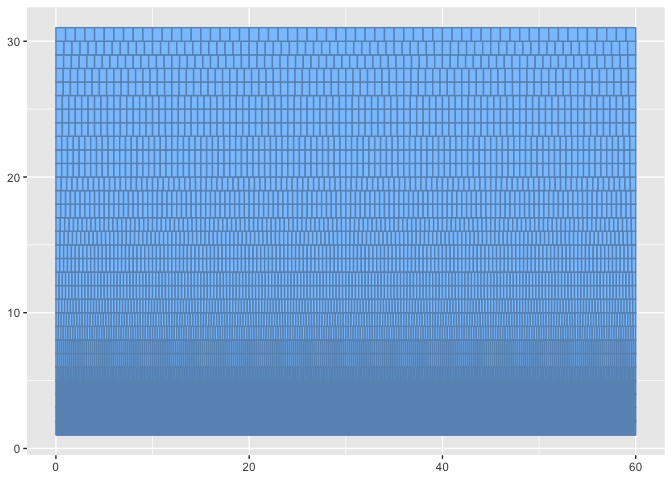
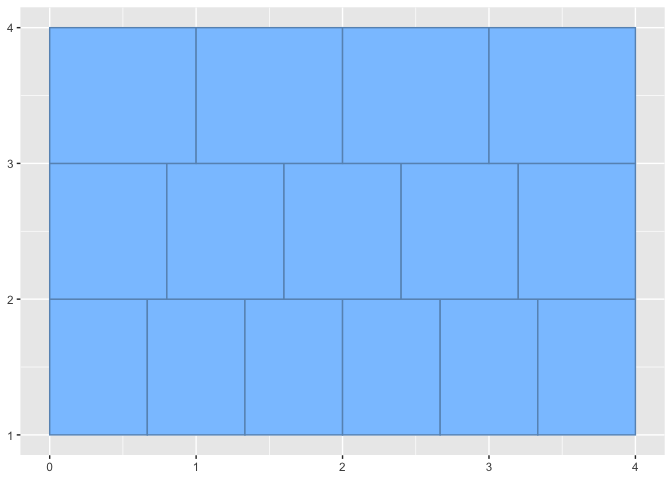
showing same dimensions for both freq and wavelength estiamtes

diff --git a/Ratios-and-Inversions.md b/Ratios-and-Inversions.md
@@ -9,91 +9,37 @@ Frequency and Wavelength Relative Periodicity
 
 #### Spatial Estimate
 
-| tol_l |  min_l_m | lcd_l_Sz | chord_l_m | chord_T_s |
-|------:|---------:|---------:|----------:|----------:|
-|   0.1 | 0.087501 |       60 |  5.250061 | 0.0153063 |
+| chord_Hz |  chord_m |  chord_s | chord_Sz |
+|---------:|---------:|---------:|---------:|
+| 65.40639 | 3.500041 | 0.015289 |        4 |
 
 ![](Ratios-and-Inversions_files/figure-gfm/unnamed-chunk-3-1.png)<!-- -->
 
-### Wavelength Ratios
+##### Wavelength Ratios
 
-| index | num | den |     ratio |      tone | reference_tone |
-|------:|----:|----:|----------:|----------:|---------------:|
-|    30 |   1 |   1 |  1.000000 | 0.0875010 |       0.087501 |
-|    29 |   6 |   5 |  1.111111 | 0.0972234 |       0.087501 |
-|    28 |   5 |   4 |  1.189207 | 0.1040568 |       0.087501 |
-|    27 |   4 |   3 |  1.250000 | 0.1093763 |       0.087501 |
-|    26 |   4 |   3 |  1.321341 | 0.1156187 |       0.087501 |
-|    25 |   3 |   2 |  1.428571 | 0.1250015 |       0.087501 |
-|    24 |   3 |   2 |  1.486509 | 0.1300710 |       0.087501 |
-|    23 |   3 |   2 |  1.498307 | 0.1311034 |       0.087501 |
-|    22 |   5 |   3 |  1.664786 | 0.1456704 |       0.087501 |
-|    21 |   5 |   3 |  1.666667 | 0.1458350 |       0.087501 |
-|    20 |   5 |   3 |  1.698867 | 0.1486526 |       0.087501 |
-|    19 |   9 |   5 |  1.872884 | 0.1638792 |       0.087501 |
-|    18 |   2 |   1 |  1.982012 | 0.1734281 |       0.087501 |
-|    17 |   2 |   1 |  2.000000 | 0.1750020 |       0.087501 |
-|    16 |  11 |   5 |  2.140439 | 0.1872906 |       0.087501 |
-|    15 |   7 |   3 |  2.378414 | 0.2081137 |       0.087501 |
-|    14 |   5 |   2 |  2.497178 | 0.2185057 |       0.087501 |
-|    13 |   5 |   2 |  2.500000 | 0.2187525 |       0.087501 |
-|    12 |   3 |   1 |  2.973018 | 0.2601421 |       0.087501 |
-|    11 |   3 |   1 |  2.996614 | 0.2622068 |       0.087501 |
-|    10 |  10 |   3 |  3.333333 | 0.2916701 |       0.087501 |
-|     9 |  11 |   3 |  3.745768 | 0.3277585 |       0.087501 |
-|     8 |   4 |   1 |  3.964024 | 0.3468561 |       0.087501 |
-|     7 |   5 |   1 |  4.994357 | 0.4370113 |       0.087501 |
-|     6 |   5 |   1 |  5.000000 | 0.4375051 |       0.087501 |
-|     5 |   6 |   1 |  5.946035 | 0.5202842 |       0.087501 |
-|     4 |  15 |   2 |  7.491535 | 0.6555170 |       0.087501 |
-|     3 |  10 |   1 | 10.000000 | 0.8750102 |       0.087501 |
-|     2 |  59 |   5 | 11.892071 | 1.0405683 |       0.087501 |
-|     1 |  15 |   1 | 14.983071 | 1.3110340 |       0.087501 |
+| index | num | den |    ratio |      tone | reference_tone |
+|------:|----:|----:|---------:|----------:|---------------:|
+|     3 |   1 |   1 | 1.000000 | 0.8750102 |      0.8750102 |
+|     2 |   5 |   4 | 1.189207 | 1.0405683 |      0.8750102 |
+|     1 |   3 |   2 | 1.498307 | 1.3110340 |      0.8750102 |
 
 #### Temporal Estimate
 
-| tol_T | min_f_Hz | lcd_f_Sz | chord_f_Hz |   chord_T |
-|------:|---------:|---------:|-----------:|----------:|
-|   0.1 | 261.6256 |       12 |   21.80213 | 0.0458671 |
+| chord_Hz |  chord_m |   chord_s | chord_Sz |
+|---------:|---------:|----------:|---------:|
+| 43.60426 | 7.866204 | 0.0229335 |        6 |
 
 ![](Ratios-and-Inversions_files/figure-gfm/unnamed-chunk-6-1.png)<!-- -->
 
-### Frequency Ratios
+#### Frequency Ratios
 
-| index | num | den |     ratio |      tone | reference_tone |
-|------:|----:|----:|----------:|----------:|---------------:|
-|     1 |   1 |   1 |  1.000000 |  261.6256 |       261.6256 |
-|     2 |   4 |   3 |  1.259921 |  329.6276 |       261.6256 |
-|     3 |   3 |   2 |  1.498307 |  391.9954 |       261.6256 |
-|     4 |   2 |   1 |  2.000000 |  523.2511 |       261.6256 |
-|     5 |   5 |   2 |  2.519842 |  659.2551 |       261.6256 |
-|     6 |   3 |   1 |  2.996614 |  783.9909 |       261.6256 |
-|     7 |   3 |   1 |  3.000000 |  784.8767 |       261.6256 |
-|     8 |  15 |   4 |  3.779763 |  988.8827 |       261.6256 |
-|     9 |   4 |   1 |  4.000000 | 1046.5023 |       261.6256 |
-|    10 |   9 |   2 |  4.494921 | 1175.9863 |       261.6256 |
-|    11 |   5 |   1 |  5.000000 | 1308.1278 |       261.6256 |
-|    12 |   5 |   1 |  5.039684 | 1318.5102 |       261.6256 |
-|    13 |   6 |   1 |  5.993228 | 1567.9817 |       261.6256 |
-|    14 |   6 |   1 |  6.000000 | 1569.7534 |       261.6256 |
-|    15 |  19 |   3 |  6.299605 | 1648.1378 |       261.6256 |
-|    16 |   7 |   1 |  7.000000 | 1831.3790 |       261.6256 |
-|    17 |  15 |   2 |  7.491535 | 1959.9772 |       261.6256 |
-|    18 |  15 |   2 |  7.559526 | 1977.7653 |       261.6256 |
-|    19 |   8 |   1 |  8.000000 | 2093.0045 |       261.6256 |
-|    20 |  35 |   4 |  8.819447 | 2307.3929 |       261.6256 |
-|    21 |   9 |   1 |  8.989842 | 2351.9726 |       261.6256 |
-|    22 |   9 |   1 |  9.000000 | 2354.6301 |       261.6256 |
-|    23 |  10 |   1 | 10.000000 | 2616.2556 |       261.6256 |
-|    24 |  10 |   1 | 10.079368 | 2637.0205 |       261.6256 |
-|    25 |  21 |   2 | 10.488150 | 2743.9680 |       261.6256 |
-|    26 |  34 |   3 | 11.339289 | 2966.6480 |       261.6256 |
-|    27 |  12 |   1 | 11.986457 | 3135.9635 |       261.6256 |
-|    28 |  25 |   2 | 12.599210 | 3296.2755 |       261.6256 |
-|    29 |  27 |   2 | 13.484764 | 3527.9589 |       261.6256 |
-|    30 |  15 |   1 | 14.983071 | 3919.9543 |       261.6256 |
+| index | num | den |    ratio |     tone | reference_tone |
+|------:|----:|----:|---------:|---------:|---------------:|
+|     1 |   1 |   1 | 1.000000 | 261.6256 |       261.6256 |
+|     2 |   4 |   3 | 1.259921 | 329.6276 |       261.6256 |
+|     3 |   3 |   2 | 1.498307 | 391.9954 |       261.6256 |
 
-#### References
+## References
 
 [Periodic function from
 Wikipedia](https://en.wikipedia.org/wiki/Periodic_Tunction)
